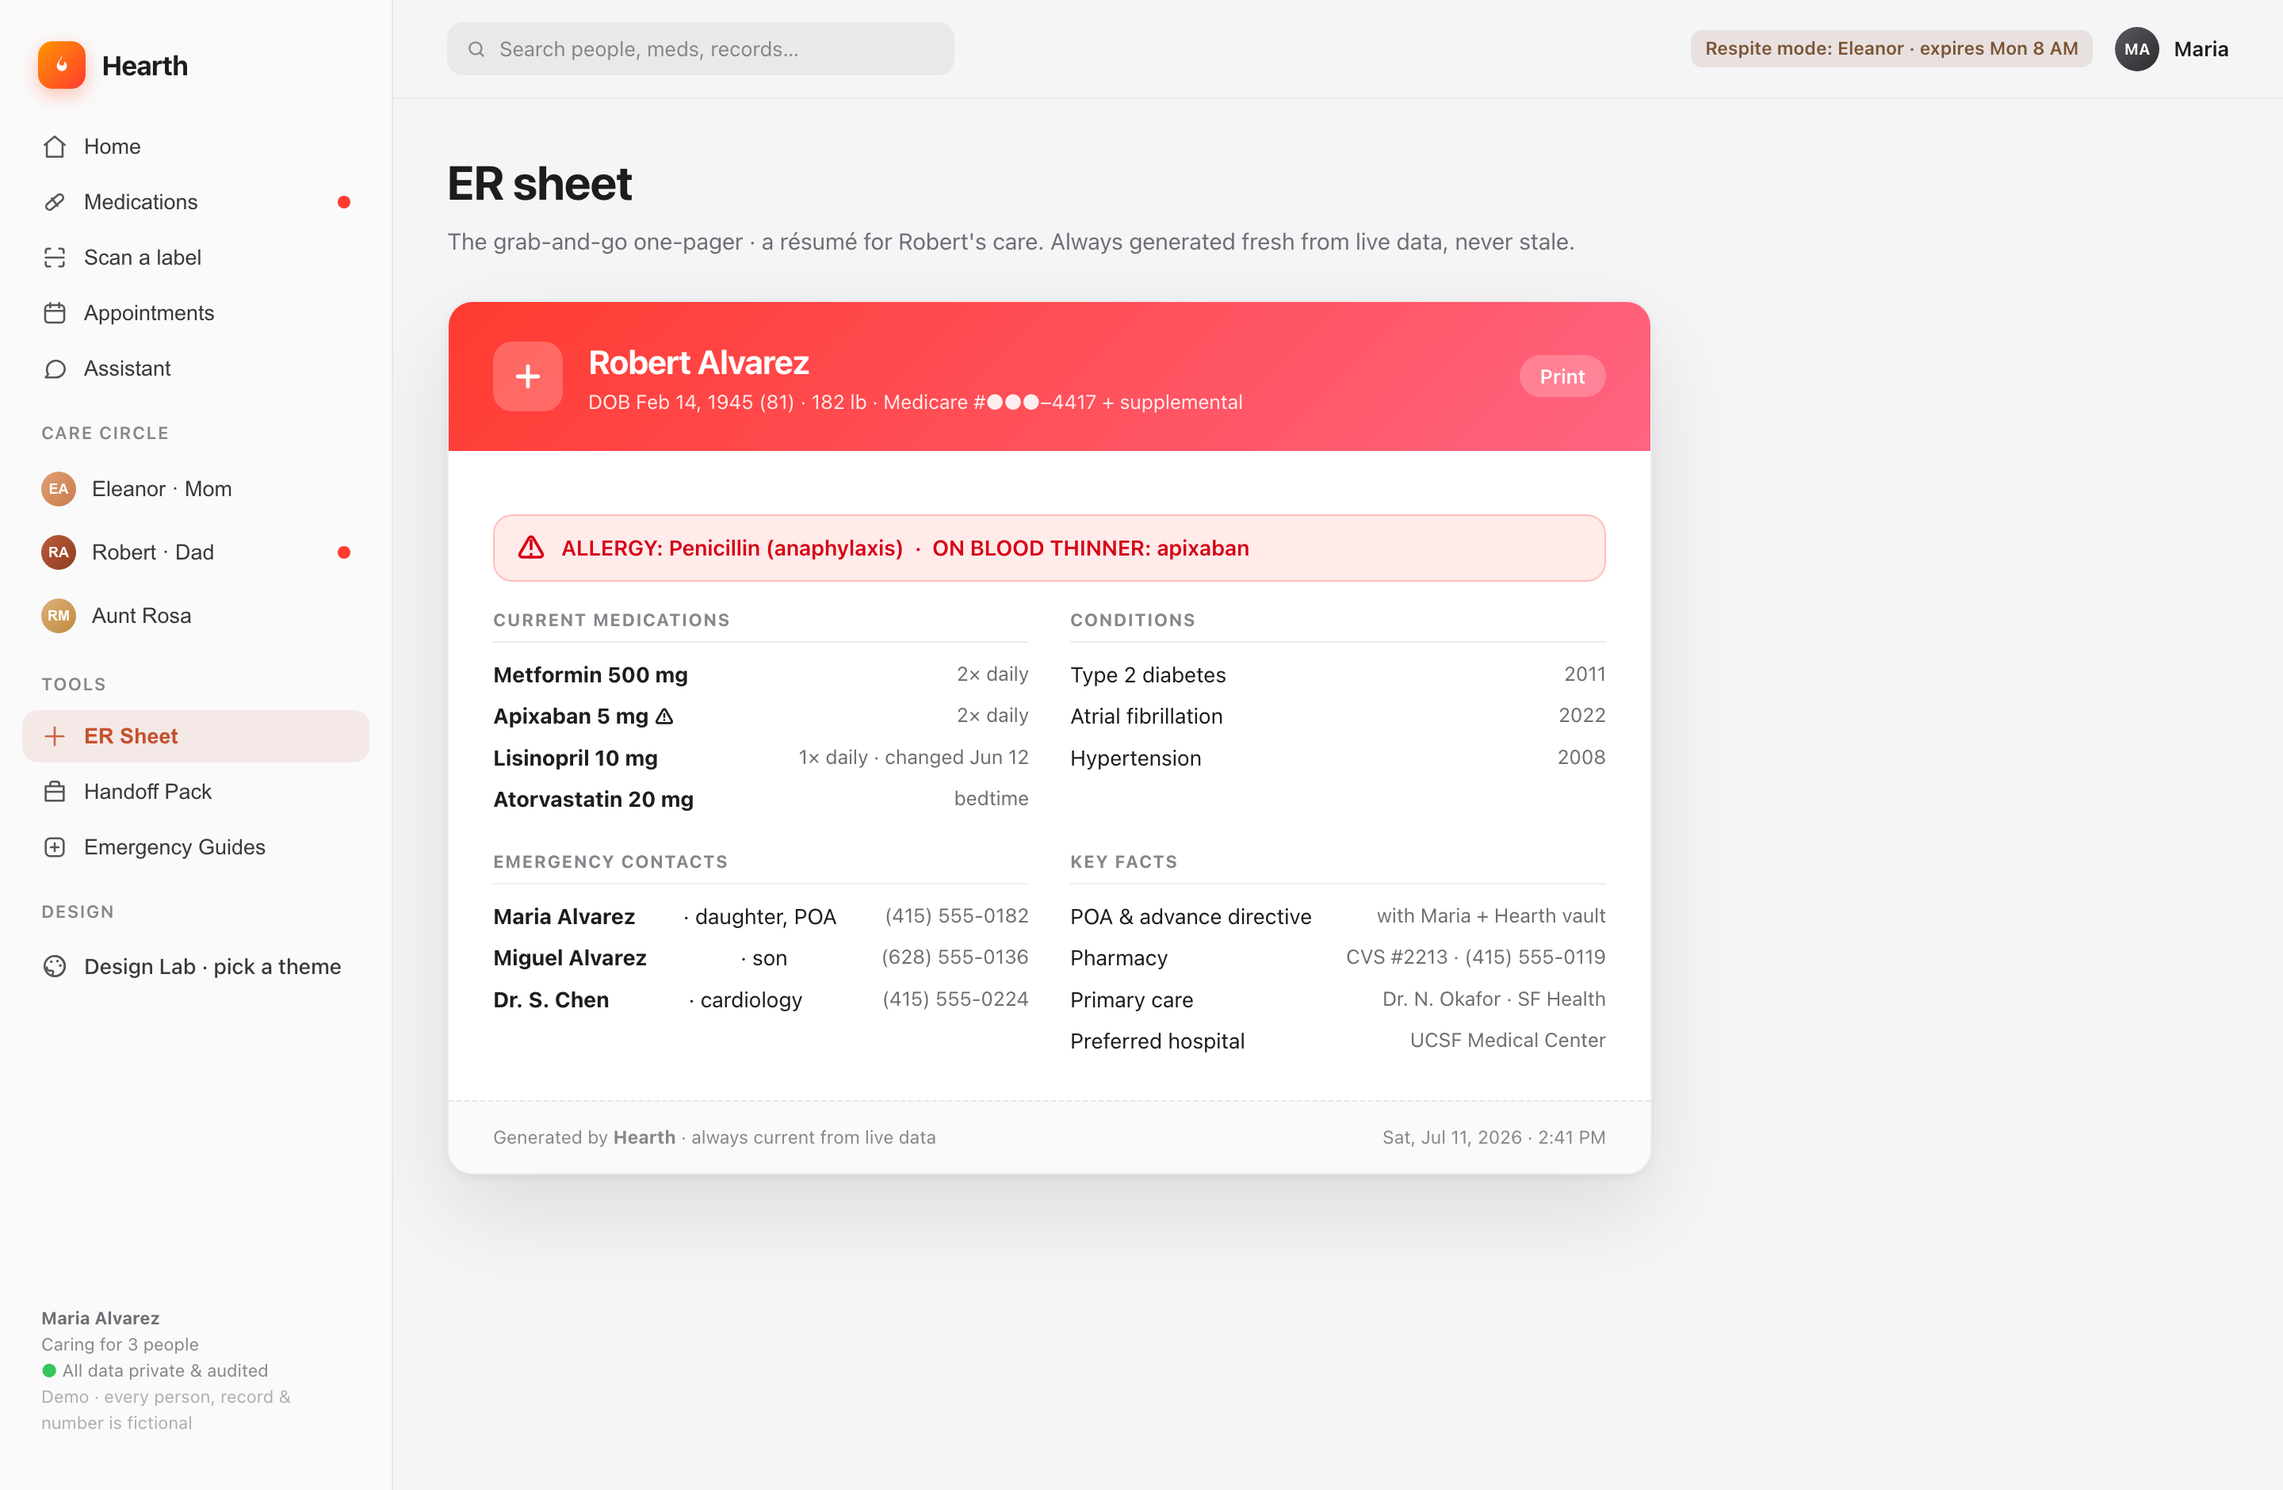
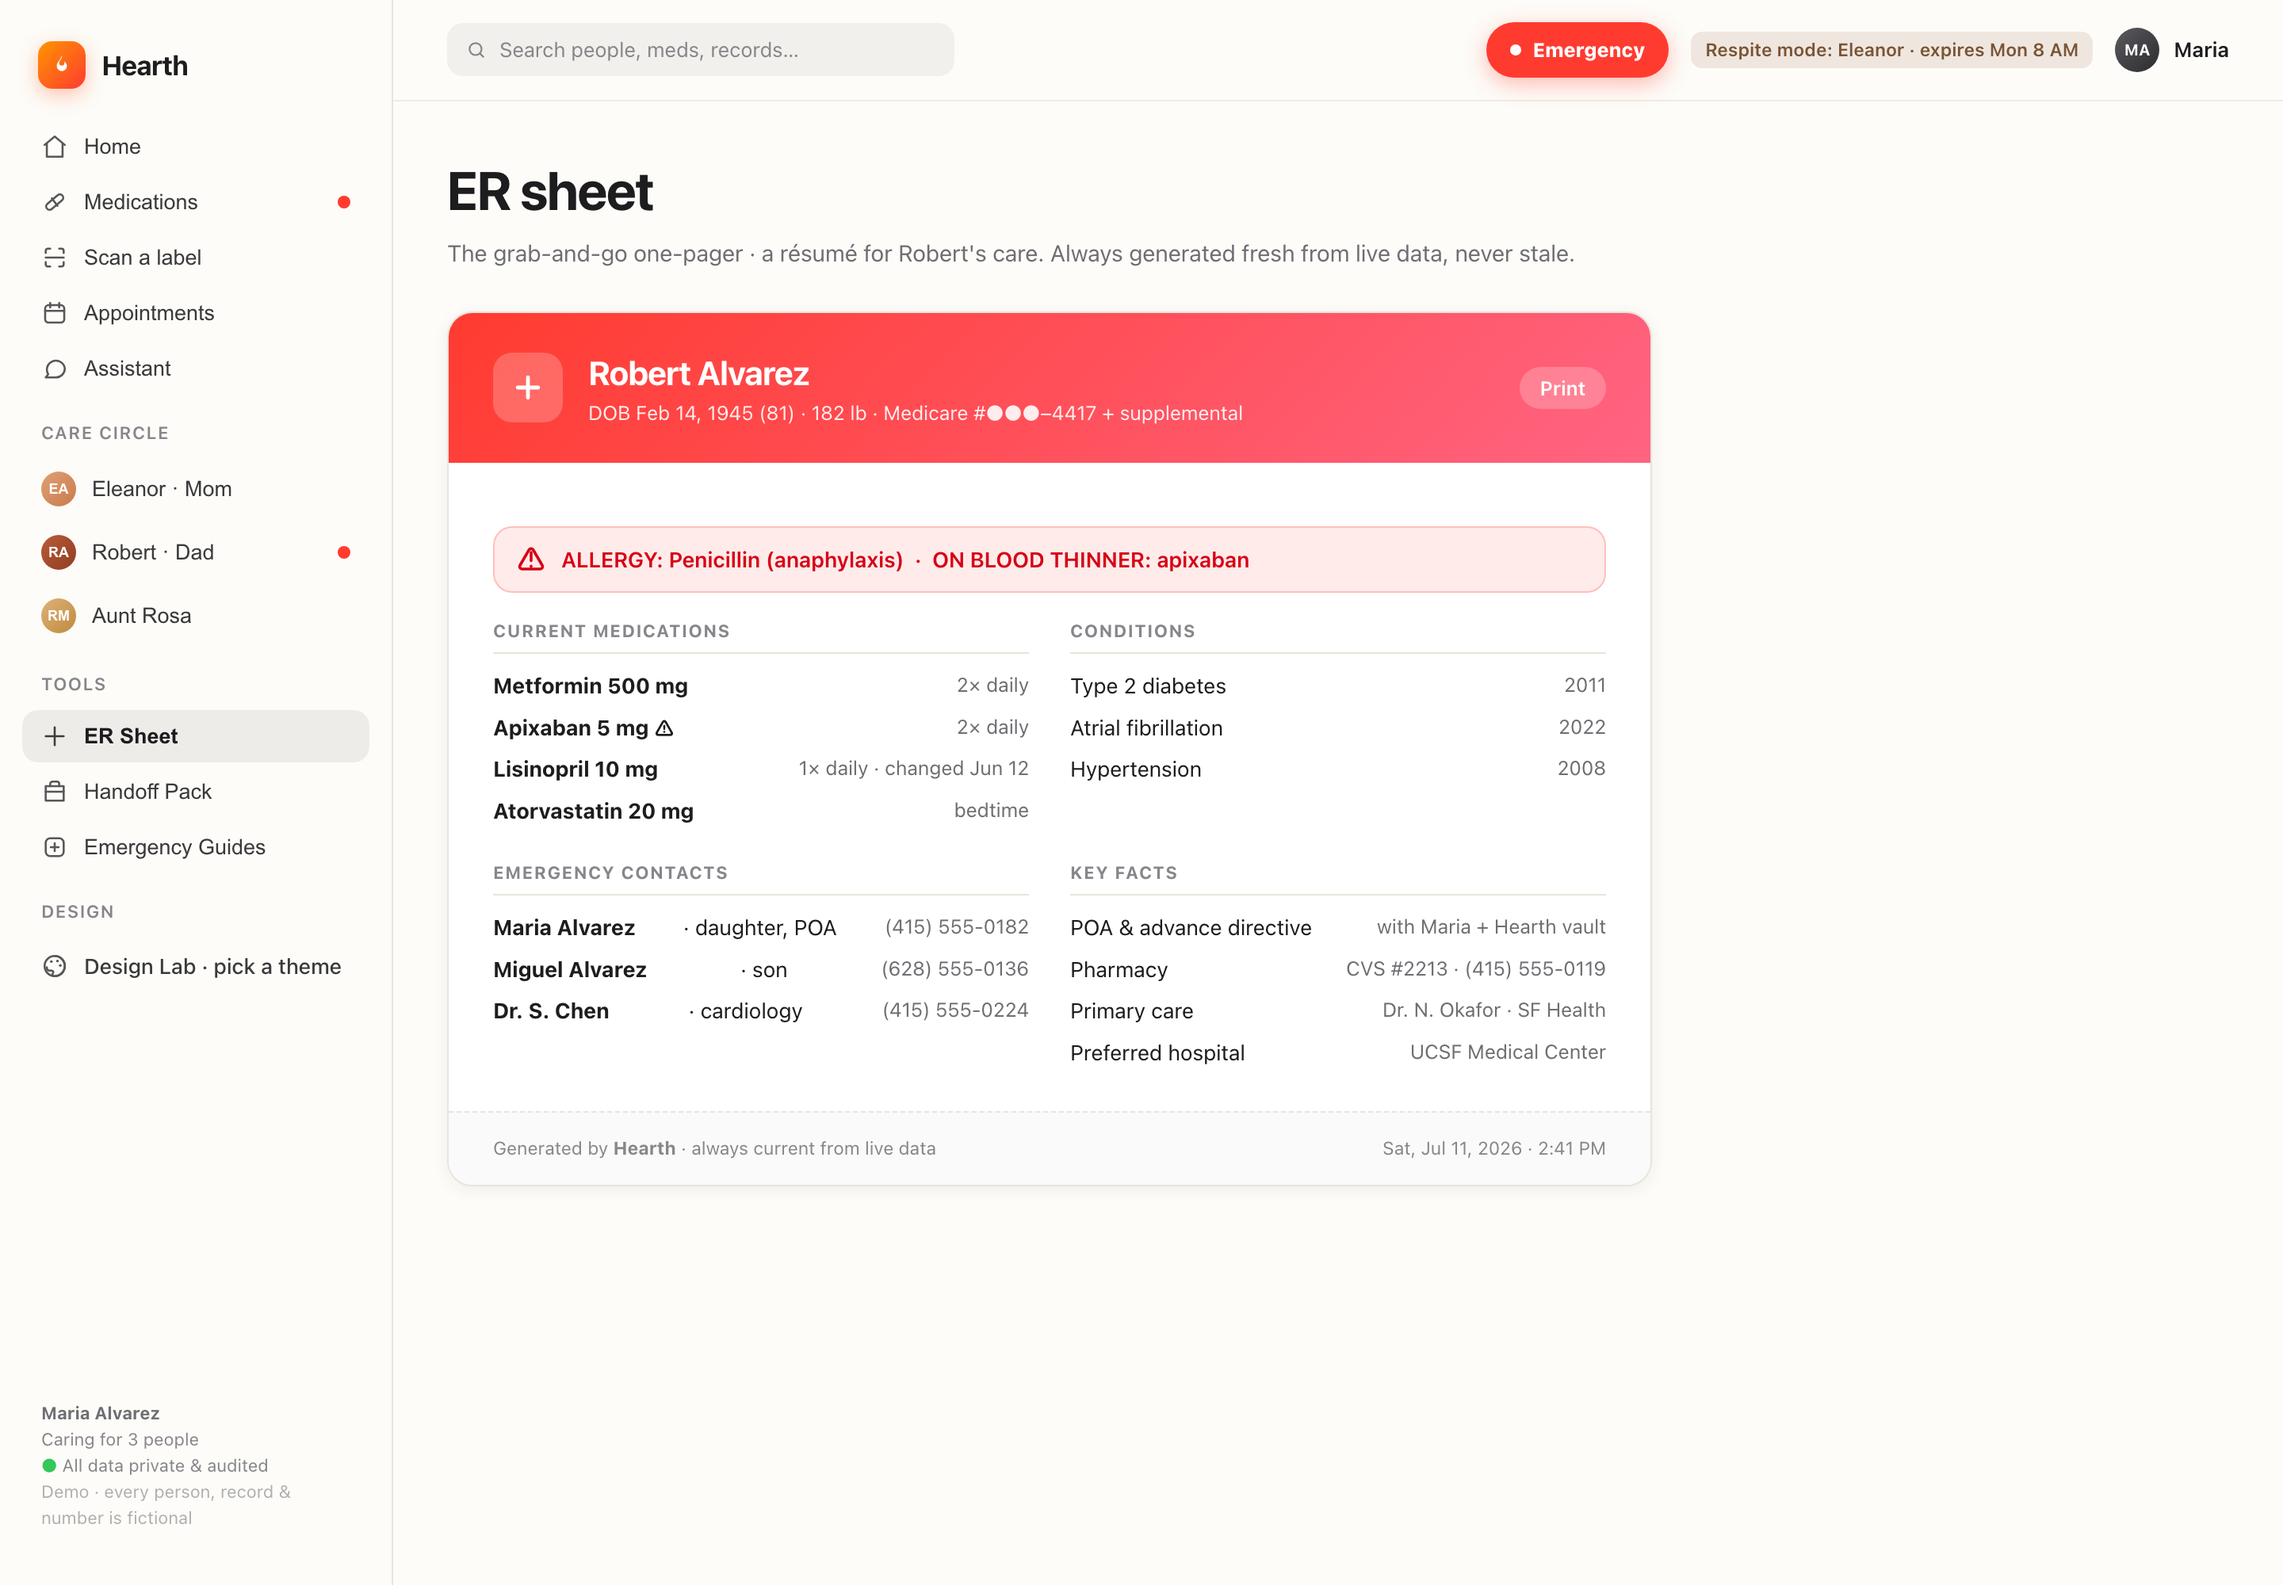
Quiet Meadow theme across the entire app: warm paper, hairlines, black pills, landscape strips, meadow horizon

diff --git a/index.html b/index.html
@@ -6,15 +6,15 @@
 <title>Hearth</title>
 <style>
 :root{
-  --bg:#F5F5F7; --card:#FFFFFF; --ink:#1D1D1F; --ink2:#6E6E73; --ink3:#86868B;
-  --line:rgba(0,0,0,.07); --line2:rgba(0,0,0,.05);
-  --blue:#C4512D; --blue-soft:rgba(196,81,45,.10);
+  --bg:#FDFCF8; --card:#FFFFFF; --ink:#1D1D1F; --ink2:#6E6E73; --ink3:#86868B;
+  --line:#E8E4DC; --line2:#EFECE4;
+  --blue:#1D1D1F; --blue-soft:rgba(29,29,31,.06);
   --green:#34C759; --green-soft:rgba(52,199,89,.12);
   --orange:#FF9500; --orange-soft:rgba(255,149,0,.13);
   --red:#FF3B30; --red-soft:rgba(255,59,48,.10);
   --purple:#8A5A36; --pink:#D9552F; --teal:#8E8E93;
-  --shadow:0 1px 2px rgba(0,0,0,.04),0 10px 30px rgba(0,0,0,.06);
-  --shadow-lg:0 2px 6px rgba(0,0,0,.05),0 24px 60px rgba(0,0,0,.10);
+  --shadow:0 1px 2px rgba(50,40,20,.04);
+  --shadow-lg:0 2px 10px rgba(50,40,20,.07);
   --r:18px;
 }
 *{box-sizing:border-box;margin:0;padding:0}
@@ -28,7 +28,7 @@ body{
 
 /* ============ SIDEBAR ============ */
 aside{
-  background:rgba(250,250,252,.86);backdrop-filter:blur(30px);
+  background:rgba(253,252,248,.88);backdrop-filter:blur(30px);
   border-right:1px solid var(--line);padding:22px 14px;display:flex;flex-direction:column;gap:2px;overflow-y:auto;
 }
 .logo{display:flex;align-items:center;gap:10px;padding:4px 10px 18px}
@@ -38,7 +38,7 @@ aside{
 .navlabel{font-size:11px;font-weight:600;color:var(--ink3);text-transform:uppercase;letter-spacing:.06em;padding:14px 12px 6px}
 .nav{display:flex;align-items:center;gap:10px;padding:8px 12px;border-radius:10px;cursor:pointer;color:#3a3a3c;font-weight:500;font-size:13.5px;border:none;background:none;width:100%;text-align:left;transition:background .15s}
 .nav:hover{background:rgba(0,0,0,.045)}
-.nav.on{background:var(--blue-soft);color:var(--blue);font-weight:600}
+.nav.on{background:rgba(29,29,31,.07);color:var(--ink);font-weight:700}
 .nav svg{width:17px;height:17px;flex:0 0 auto;opacity:.85}
 .nav .dotb{margin-left:auto;width:8px;height:8px;border-radius:50%;background:var(--red)}
 .nav .av{width:22px;height:22px;border-radius:50%;font-size:9px}
@@ -49,14 +49,14 @@ aside{
 main{overflow-y:auto;position:relative}
 .topbar{
   position:sticky;top:0;z-index:20;display:flex;align-items:center;gap:14px;
-  padding:14px 34px;background:rgba(245,245,247,.8);backdrop-filter:blur(28px);border-bottom:1px solid var(--line2);
+  padding:14px 34px;background:rgba(253,252,248,.85);backdrop-filter:blur(28px);border-bottom:1px solid var(--line2);
 }
 .search{flex:0 0 320px;display:flex;align-items:center;gap:8px;background:rgba(0,0,0,.05);border-radius:10px;padding:7px 12px;color:var(--ink3);font-size:13px}
 .search svg{width:13px;height:13px}
 .topbar .spacer{flex:1}
 .chip-user{display:flex;align-items:center;gap:9px;font-weight:600;font-size:13px}
 .pagewrap{padding:30px 34px 60px;max-width:1180px}
-h1.page{font-size:30px;font-weight:700;letter-spacing:-.022em;margin-bottom:4px}
+h1.page{font-size:34px;font-weight:700;letter-spacing:-.03em;margin-bottom:4px}
 .sub{color:var(--ink2);font-size:14.5px;margin-bottom:26px}
 .view{display:none}.view.on{display:block;animation:vin .35s cubic-bezier(.2,.7,.3,1)}
 @keyframes vin{from{opacity:0;transform:translateY(8px)}to{opacity:1}}
@@ -68,7 +68,7 @@ h1.page{font-size:30px;font-weight:700;letter-spacing:-.022em;margin-bottom:4px}
 .row{display:flex;align-items:center;gap:10px}
 .btn{border:none;cursor:pointer;font-family:inherit;font-weight:600;font-size:13.5px;border-radius:980px;padding:9px 18px;transition:.15s;letter-spacing:-.01em}
 .btn.primary{background:var(--blue);color:#fff}
-.btn.primary:hover{background:#B2451F;transform:scale(1.02)}
+.btn.primary:hover{background:#000;transform:scale(1.02)}
 .btn.quiet{background:rgba(0,0,0,.05);color:var(--ink)}
 .btn.quiet:hover{background:rgba(0,0,0,.08)}
 .btn.tint{background:var(--blue-soft);color:var(--blue)}
@@ -92,7 +92,7 @@ h1.page{font-size:30px;font-weight:700;letter-spacing:-.022em;margin-bottom:4px}
 .kv{font-size:13px}.kv b{display:block;font-size:12px;color:var(--ink3);font-weight:600;margin-bottom:1px}
 
 /* ============ DASHBOARD ============ */
-.digest{background:linear-gradient(135deg,#FFFFFF, #FFF6EF 92%);border:1px solid rgba(196,81,45,.16)}
+.digest{background:transparent;border:none;border-top:1px solid #1D1D1F;border-bottom:1px solid var(--line);border-radius:0;box-shadow:none}
 .digest .dhead{display:flex;align-items:center;gap:10px;margin-bottom:12px}
 .digest .dhead .ic{width:34px;height:34px;border-radius:10px;background:linear-gradient(135deg,#FF9500,#FF3B30);display:grid;place-items:center;box-shadow:0 6px 16px rgba(255,90,40,.32)}
 .digest .dhead .ic svg{width:17px;height:17px}
@@ -121,7 +121,7 @@ h1.page{font-size:30px;font-weight:700;letter-spacing:-.022em;margin-bottom:4px}
 .qa span{font-size:11.5px;color:var(--ink3);margin-top:-6px}
 .duty{display:flex;gap:8px}
 .duty .day{flex:1;text-align:center;padding:10px 4px;border-radius:12px;background:rgba(0,0,0,.03)}
-.duty .day.today{background:var(--blue-soft);outline:1.5px solid rgba(0,113,227,.35)}
+.duty .day.today{background:var(--blue-soft);outline:1.5px solid rgba(29,29,31,.3)}
 .duty .d{font-size:10.5px;font-weight:600;color:var(--ink3);text-transform:uppercase}
 .duty .n{font-size:15px;font-weight:700;margin:2px 0 6px}
 .duty .av{width:22px;height:22px;font-size:8.5px;margin:0 auto}
@@ -338,6 +338,7 @@ table.meds tr:hover td{background:rgba(0,0,0,.015)}
 
     <div class="grid roster" style="margin-bottom:16px">
       <div class="card pcard" onclick="go('eleanor')">
+        <svg viewBox="0 0 400 54" width="100%" height="54" style="display:block;border-radius:10px;margin-bottom:12px" preserveAspectRatio="none"><rect width="400" height="54" fill="#EAE3EE"/><rect y="26" width="400" height="28" fill="#C7B6D6"/><path d="M0 54 L170 30 M60 54 L185 30 M130 54 L200 30 M270 54 L215 30 M340 54 L230 30 M400 50 L240 30" stroke="#A98FC2" stroke-width="2.5"/><circle cx="330" cy="14" r="8" fill="#E6D4EE"/></svg>
         <span class="status dot orange"></span>
         <div class="top"><span class="av g1">EA</span><div><h4>Eleanor Alvarez</h4><div class="rel">Mom · 78 · early-stage Alzheimer's</div></div></div>
         <div class="stat-line"><svg viewBox="0 0 24 24" fill="none" stroke="currentColor" stroke-width="2"><path d="M3 12h4l2-6 4 12 2-6h6" stroke-linecap="round" stroke-linejoin="round"/></svg>Sleep 6.1 h · trending down</div>
@@ -345,6 +346,7 @@ table.meds tr:hover td{background:rgba(0,0,0,.015)}
         <div class="foot"><span class="tag orange">Worth a look</span><span class="tag purple">Respite: Dana</span></div>
       </div>
       <div class="card pcard" onclick="go('robert')">
+        <svg viewBox="0 0 400 54" width="100%" height="54" style="display:block;border-radius:10px;margin-bottom:12px" preserveAspectRatio="none"><rect width="400" height="54" fill="#EDEBE2"/><circle cx="96" cy="22" r="11" fill="#F2D9A0"/><rect y="30" width="400" height="24" fill="#CAD8DC"/><path d="M40 34 h44 M300 38 h56 M150 44 h64" stroke="#E5EEF0" stroke-width="3" stroke-linecap="round"/><path d="M330 30 v-16 M344 30 v-12 M356 30 v-18" stroke="#6E7B6A" stroke-width="2.5"/></svg>
         <span class="status dot red"></span>
         <div class="top"><span class="av g2">RA</span><div><h4>Robert Alvarez</h4><div class="rel">Dad · 81 · T2 diabetes · AFib</div></div></div>
         <div class="stat-line"><svg viewBox="0 0 24 24" fill="none" stroke="currentColor" stroke-width="2" stroke-linecap="round"><rect x="4" y="8" width="16" height="5" rx="2.5" transform="rotate(-30 12 12)"/></svg><b style="color:#D70015">Metformin: 4 days left</b></div>
@@ -352,6 +354,7 @@ table.meds tr:hover td{background:rgba(0,0,0,.015)}
         <div class="foot"><span class="tag red">Act now</span><span class="tag gray">Cardiology Thu</span></div>
       </div>
       <div class="card pcard" onclick="go('rosa')">
+        <svg viewBox="0 0 400 54" width="100%" height="54" style="display:block;border-radius:10px;margin-bottom:12px" preserveAspectRatio="none"><rect width="400" height="54" fill="#F2EFDF"/><path d="M0 40 Q100 22 200 34 T400 30 V54 H0 Z" fill="#C9CFA8"/><path d="M0 48 Q140 34 280 44 T400 44 V54 H0 Z" fill="#A8B584"/><circle cx="70" cy="44" r="2.4" fill="#FFF"/><circle cx="150" cy="41" r="2.4" fill="#F2D9A0"/><circle cx="240" cy="46" r="2.4" fill="#FFF"/><circle cx="320" cy="43" r="2.4" fill="#F2D9A0"/></svg>
         <span class="status dot green"></span>
         <div class="top"><span class="av g3">RM</span><div><h4>Rosa Marquez</h4><div class="rel">Aunt · 74 · hypothyroid</div></div></div>
         <div class="stat-line"><svg viewBox="0 0 24 24" fill="none" stroke="currentColor" stroke-width="2" stroke-linecap="round"><path d="M20 6 9 17l-5-5" stroke-linejoin="round"/></svg>All meds on track · 32 days runway</div>
@@ -386,6 +389,7 @@ table.meds tr:hover td{background:rgba(0,0,0,.015)}
       <div class="card qa" onclick="go('handoff')"><div class="ic" style="background:rgba(166,123,91,.15);color:#7A5434"><svg viewBox="0 0 24 24" fill="none" stroke="currentColor" stroke-width="2" stroke-linecap="round" stroke-linejoin="round"><path d="M4 7h16v13H4z"/><path d="M8 7V5a2 2 0 0 1 2-2h4a2 2 0 0 1 2 2v2"/></svg></div><b>Handoff Pack</b><span>For a substitute caregiver</span></div>
       <div class="card qa" onclick="go('appts')"><div class="ic" style="background:rgba(0,0,0,.05);color:#4A4A4F"><svg viewBox="0 0 24 24" fill="none" stroke="currentColor" stroke-width="2" stroke-linecap="round"><rect x="3.5" y="5" width="17" height="15.5" rx="3"/><path d="M8 3v4M16 3v4"/></svg></div><b>Visit prep</b><span>Dr. Chen · Thursday</span></div>
     </div>
+    <div style="margin-top:34px"><svg viewBox="0 0 1200 54" width="100%" preserveAspectRatio="none" style="display:block"><path d="M0 38 Q150 22 320 34 T680 32 T1040 36 L1200 34 V54 H0 Z" fill="#DCE3D2"/><path d="M0 46 Q220 34 480 43 T980 42 L1200 44 V54 H0 Z" fill="#C9D4BC"/><path d="M905 36 v-14" stroke="#7A8A6A" stroke-width="3"/><circle cx="905" cy="18" r="7" fill="#7A8A6A"/></svg></div>
   </section>
 
   <!-- ========== PATIENT: ROBERT ========== -->
